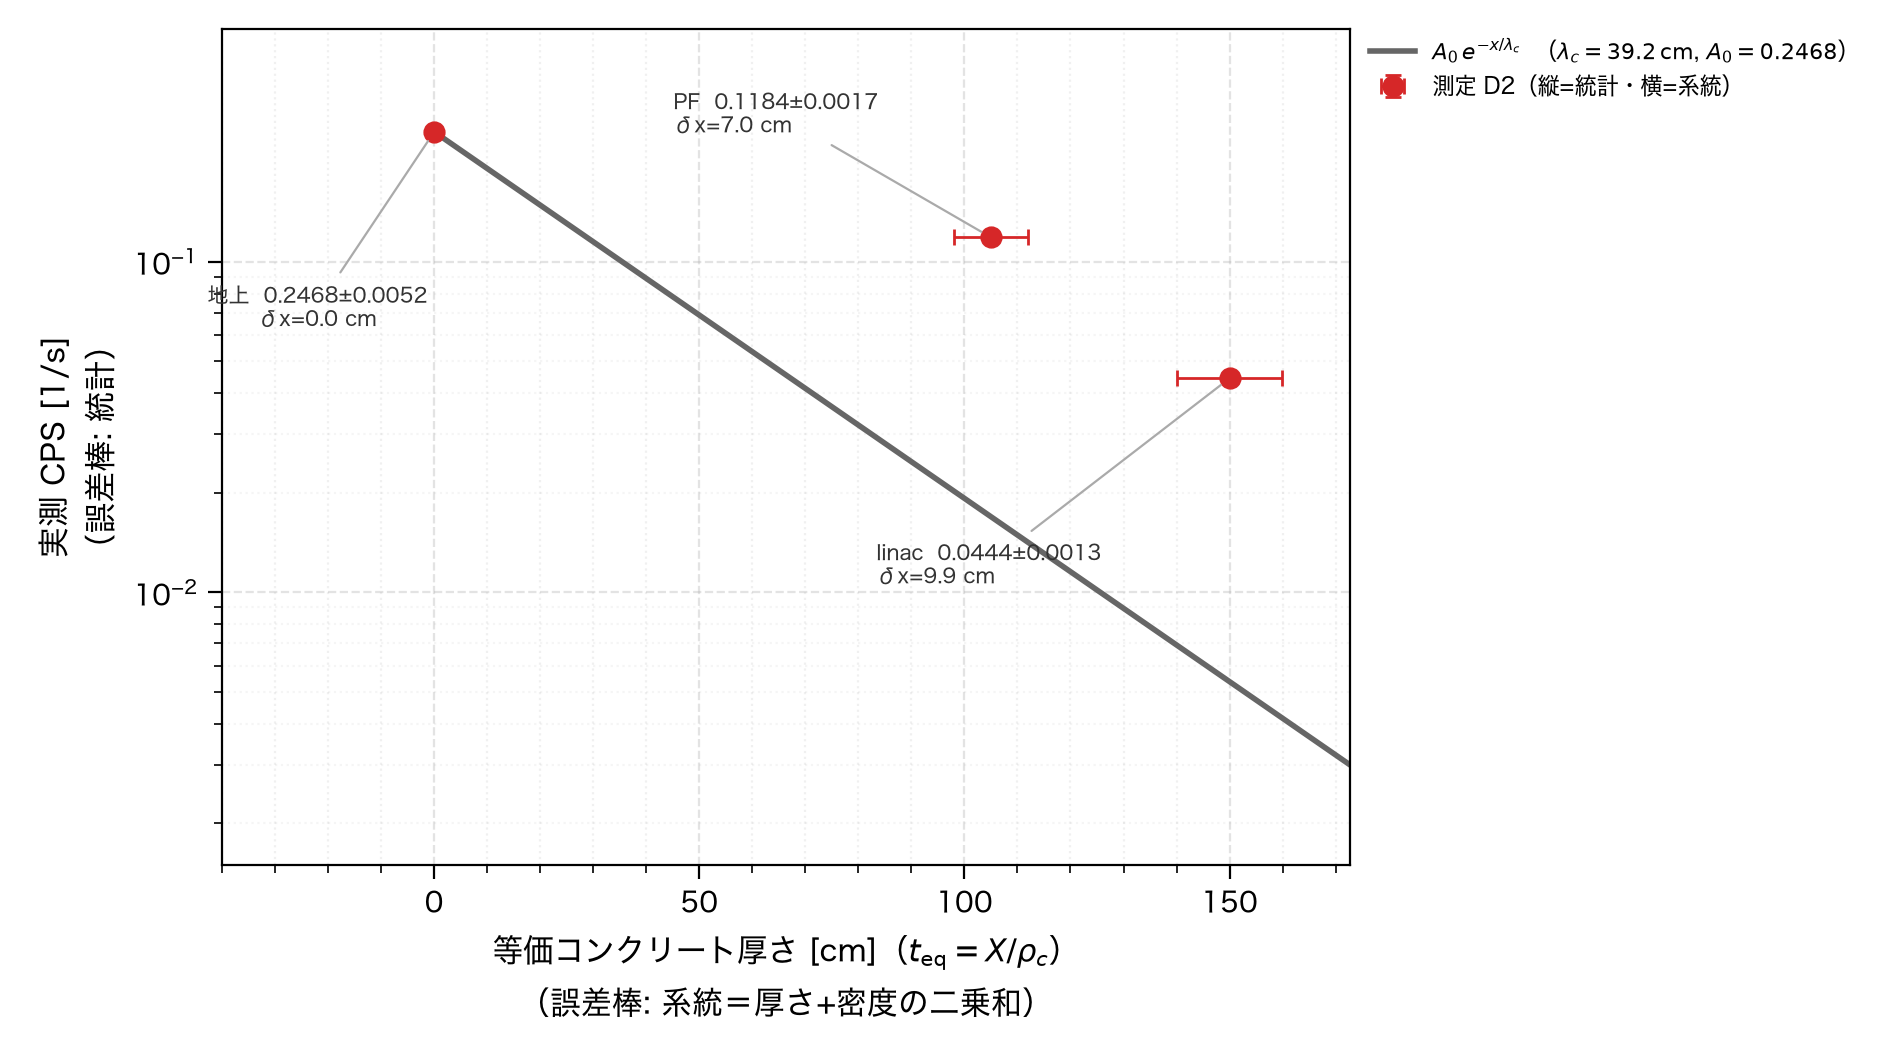
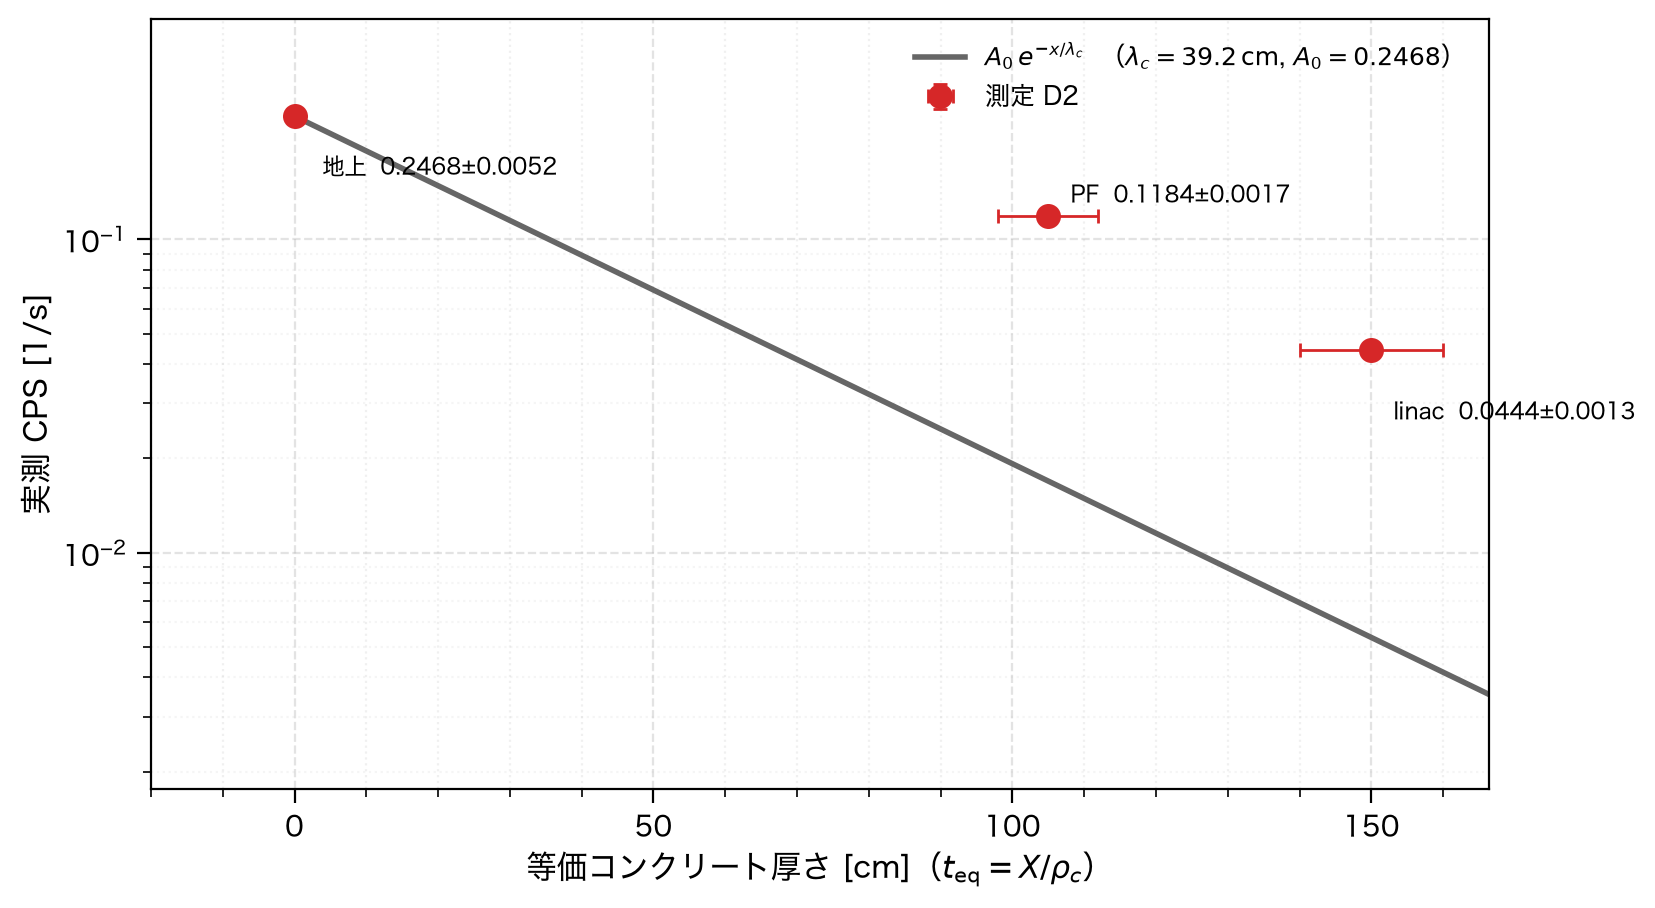
chore(kek-mca): refresh equivalent-concrete figures
Sync updated 16-series error-bar plots and add detector-comparison
figures to the gallery page.

diff --git a/kek-mca/等価コンクリート/index.html b/kek-mca/等価コンクリート/index.html
@@ -59,6 +59,14 @@
     <figcaption>標準<span class="fname">11_全地点_等価コンクリート.png</span></figcaption>
     <a href="../figures/11_%E5%85%A8%E5%9C%B0%E7%82%B9_%E7%AD%89%E4%BE%A1%E3%82%B3%E3%83%B3%E3%82%AF%E3%83%AA%E3%83%BC%E3%83%88.png" target="_blank" rel="noopener"><img src="../figures/11_%E5%85%A8%E5%9C%B0%E7%82%B9_%E7%AD%89%E4%BE%A1%E3%82%B3%E3%83%B3%E3%82%AF%E3%83%AA%E3%83%BC%E3%83%88.png" alt="標準" loading="lazy"></a>
   </figure>
+  <figure class="card">
+    <figcaption>検出器比較_片対数<span class="fname">11_全地点_等価コンクリート_検出器比較_片対数.png</span></figcaption>
+    <a href="../figures/11_%E5%85%A8%E5%9C%B0%E7%82%B9_%E7%AD%89%E4%BE%A1%E3%82%B3%E3%83%B3%E3%82%AF%E3%83%AA%E3%83%BC%E3%83%88_%E6%A4%9C%E5%87%BA%E5%99%A8%E6%AF%94%E8%BC%83_%E7%89%87%E5%AF%BE%E6%95%B0.png" target="_blank" rel="noopener"><img src="../figures/11_%E5%85%A8%E5%9C%B0%E7%82%B9_%E7%AD%89%E4%BE%A1%E3%82%B3%E3%83%B3%E3%82%AF%E3%83%AA%E3%83%BC%E3%83%88_%E6%A4%9C%E5%87%BA%E5%99%A8%E6%AF%94%E8%BC%83_%E7%89%87%E5%AF%BE%E6%95%B0.png" alt="検出器比較_片対数" loading="lazy"></a>
+  </figure>
+  <figure class="card">
+    <figcaption>検出器比較<span class="fname">11_全地点_等価コンクリート_検出器比較.png</span></figcaption>
+    <a href="../figures/11_%E5%85%A8%E5%9C%B0%E7%82%B9_%E7%AD%89%E4%BE%A1%E3%82%B3%E3%83%B3%E3%82%AF%E3%83%AA%E3%83%BC%E3%83%88_%E6%A4%9C%E5%87%BA%E5%99%A8%E6%AF%94%E8%BC%83.png" target="_blank" rel="noopener"><img src="../figures/11_%E5%85%A8%E5%9C%B0%E7%82%B9_%E7%AD%89%E4%BE%A1%E3%82%B3%E3%83%B3%E3%82%AF%E3%83%AA%E3%83%BC%E3%83%88_%E6%A4%9C%E5%87%BA%E5%99%A8%E6%AF%94%E8%BC%83.png" alt="検出器比較" loading="lazy"></a>
+  </figure>
   <h2 id="g12">実測 CPS（12）</h2>
   <figure class="card">
     <figcaption>large_D2_片対数<span class="fname">12_全地点_等価コンクリート_実測CPS_large_D2_片対数.png</span></figcaption>

diff --git a/kek-mca/index.html b/kek-mca/index.html
@@ -296,7 +296,7 @@
 
   <h2>等価コンクリート厚さグラフ</h2>
   <p><a href="./%E7%AD%89%E4%BE%A1%E3%82%B3%E3%83%B3%E3%82%AF%E3%83%AA%E3%83%BC%E3%83%88/">図付きページで確認 →</a></p>
-  <p class="note">相対 CPS / 実測 CPS、誤差棒付きを含む 24 枚。</p>
+  <p class="note">相対 CPS / 実測 CPS、誤差棒付き・検出器比較を含む 26 枚。</p>
 
   <h2>スケジュール</h2>
   <p class="note">上段 D1 / D2、下段 d1 / d2。細い帯はマウスオーバーで時刻。</p>
